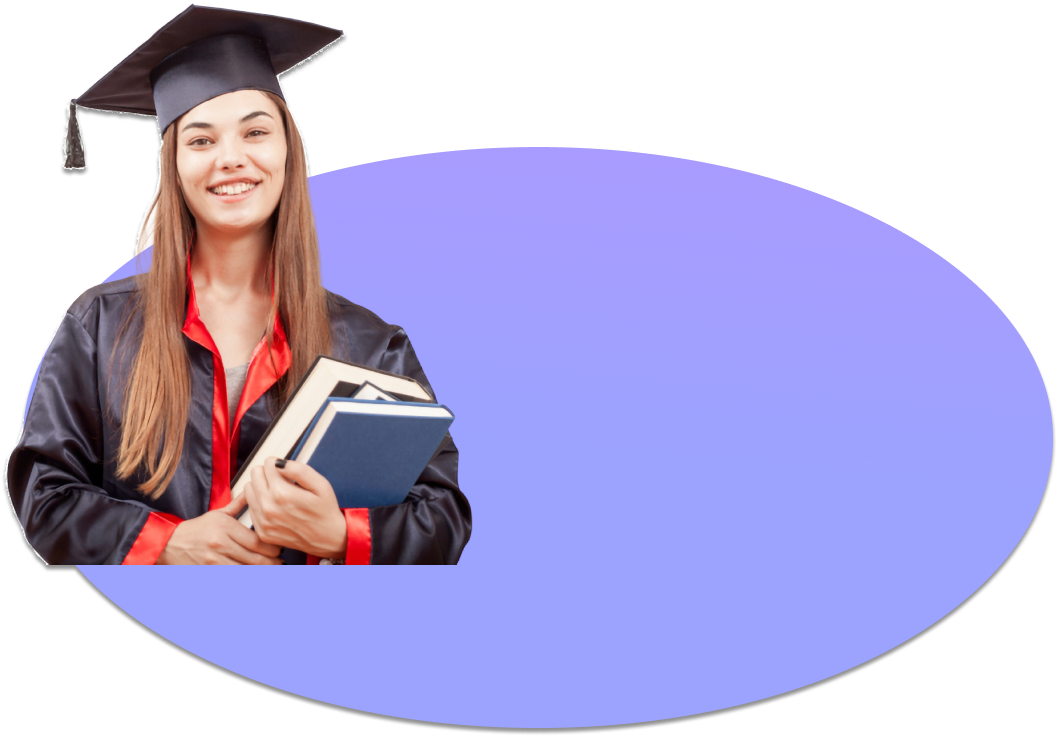
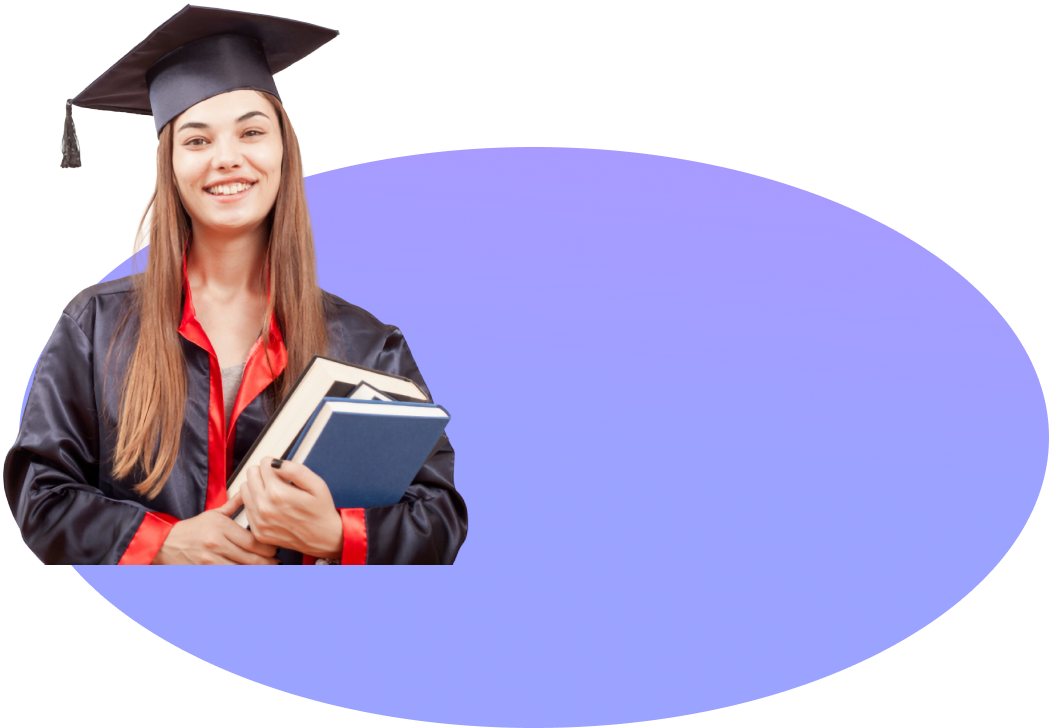
changes img

diff --git a/css/main.css b/css/main.css
@@ -78,7 +78,7 @@ margin-left: 40px;
 	display: flex;
 	align-items: center;
 	padding: 40px 0 0 0;
-	margin-bottom: 128px;
+
 }
 
 .header .logo {
@@ -128,10 +128,11 @@ transition: width 0.3s linear;
 }
 
 .section-one {
+	padding: 128px 0 0 0;
 	background-image: url("../images/girl.png");
-	background-position:right -400px top 14px;
+	background-position: calc(940px - 50px) calc(160px - 50px);
 	background-repeat: no-repeat;
-	background-size: 975px;
+	background-size: 1075px;
 }
 
 .banner {
@@ -143,6 +144,7 @@ transition: width 0.3s linear;
 
 .banner .banner-left {
 	width: 632px;
+	padding: 0 0 59px 0;
 }
 
 .banner .banner-left .btn {
@@ -175,7 +177,7 @@ transition: width 0.3s linear;
 	display: flex;
 	align-items: center;
 	padding: 0;
-	margin: 0 0 58px 0;
+
 
 }
 

diff --git a/index.html b/index.html
@@ -71,11 +71,7 @@
 							</li>
 						</ul>
 					</div>
-					<div class="banner-right">
-						<!-- <img class="girl" src="./images/girl.png" srcset="./images/girl.png 1x, ./images/girl@2x.png 2x" width="470"
-							height="565" alt="girl"> -->
 
-					</div>
 				</div>
 			</div>
 		</section>
